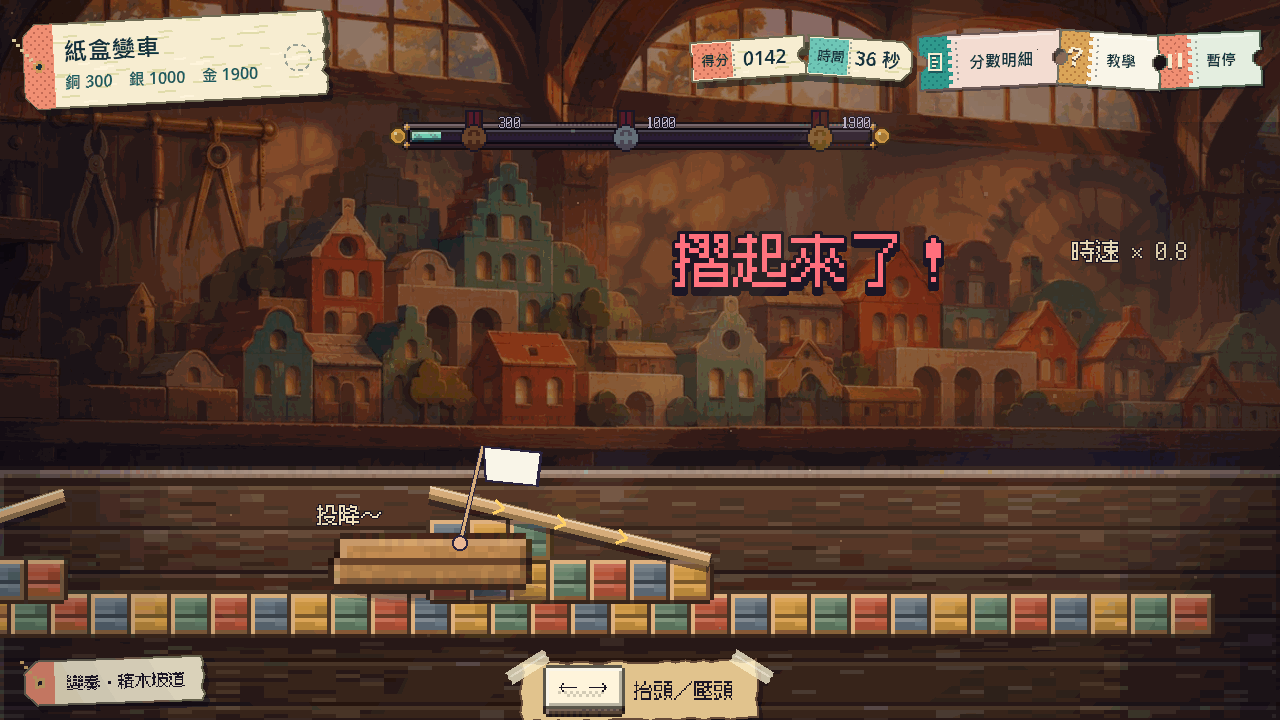
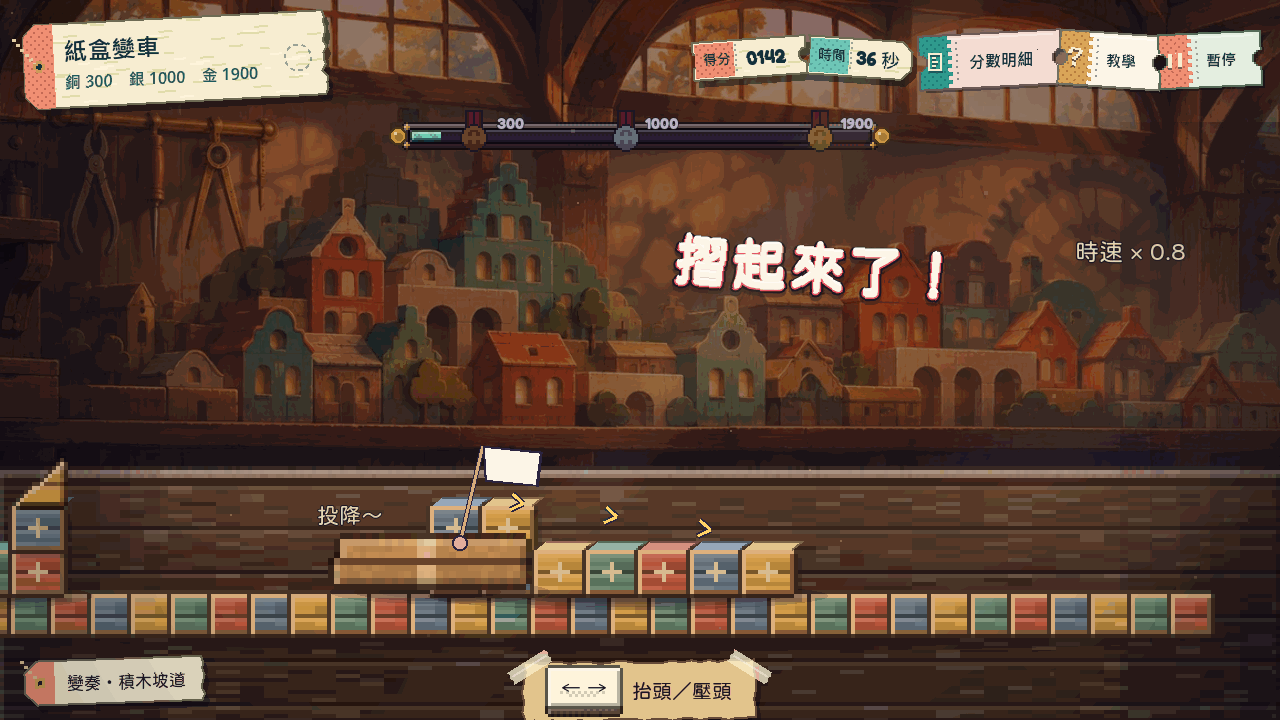
fix: give the box kart flaps, tape and crayon wheels and build the ramps from chunky stacked blocks (SG-92)

diff --git a/pm/Snapland-small-game/[SG-92]實作紙盒變車.md b/pm/Snapland-small-game/[SG-92]實作紙盒變車.md
@@ -59,5 +59,19 @@
 
 ### 截圖
 
-![落地太歪，紙箱摺扁，主角從箱縫伸手揮白旗](images/SG-92-kart-fold.png)
+![紙盒變車的畫面（Commit-2 重畫後）](images/SG-92-kart-crayon.png)
+
+---
+
+# Commit-2
+
+## 內文
+
+紙箱車只是一塊平平的米色長方形，坡道只有一根細細的木條架在積木上，看起來像還沒畫完的填充圖。
+現在紙箱車有往外翻開的四片箱蓋、黏過箱口和正面的牛皮膠帶，側面用蠟筆畫了圈起來的賽車號碼和速度線，輪子是用蠟筆畫上輻條和輪圈的圓紙板，主角在箱子裡露出頭，平常兩手抓著箱口、飛起來時舉高雙手。坡道改成一階一階疊起來的大塊彩色積木，最上面那塊有受光的頂面、每塊都有往右下的影子，起跳台頂端是一塊斜面積木做的跳口，落地的積木階梯上有指出方向的箭頭；蹺蹺板的支點也換成兩塊疊起來的積木。
+以原生畫面重新擷取空中與摺扁的畫面逐張看過，教學圖與票上的截圖一併換新；規則測試與教學圖片檢查重新跑過。
+
+### 截圖
+
+![蠟筆畫號碼與輪子的紙箱車飛過一階階積木坡道](images/SG-92-kart-crayon.png)
 
